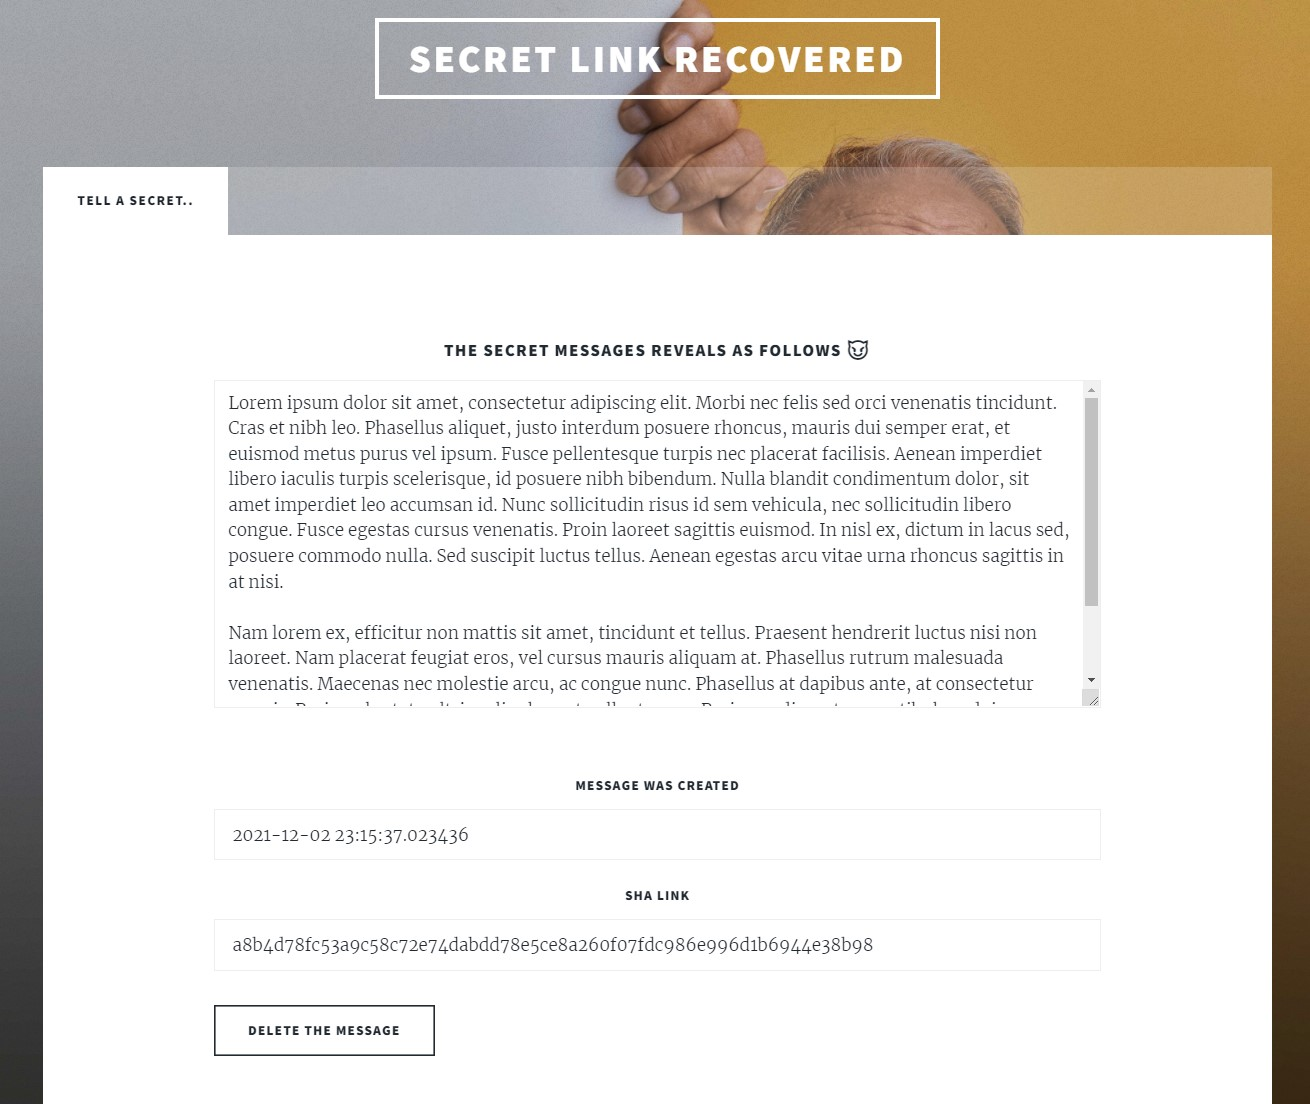
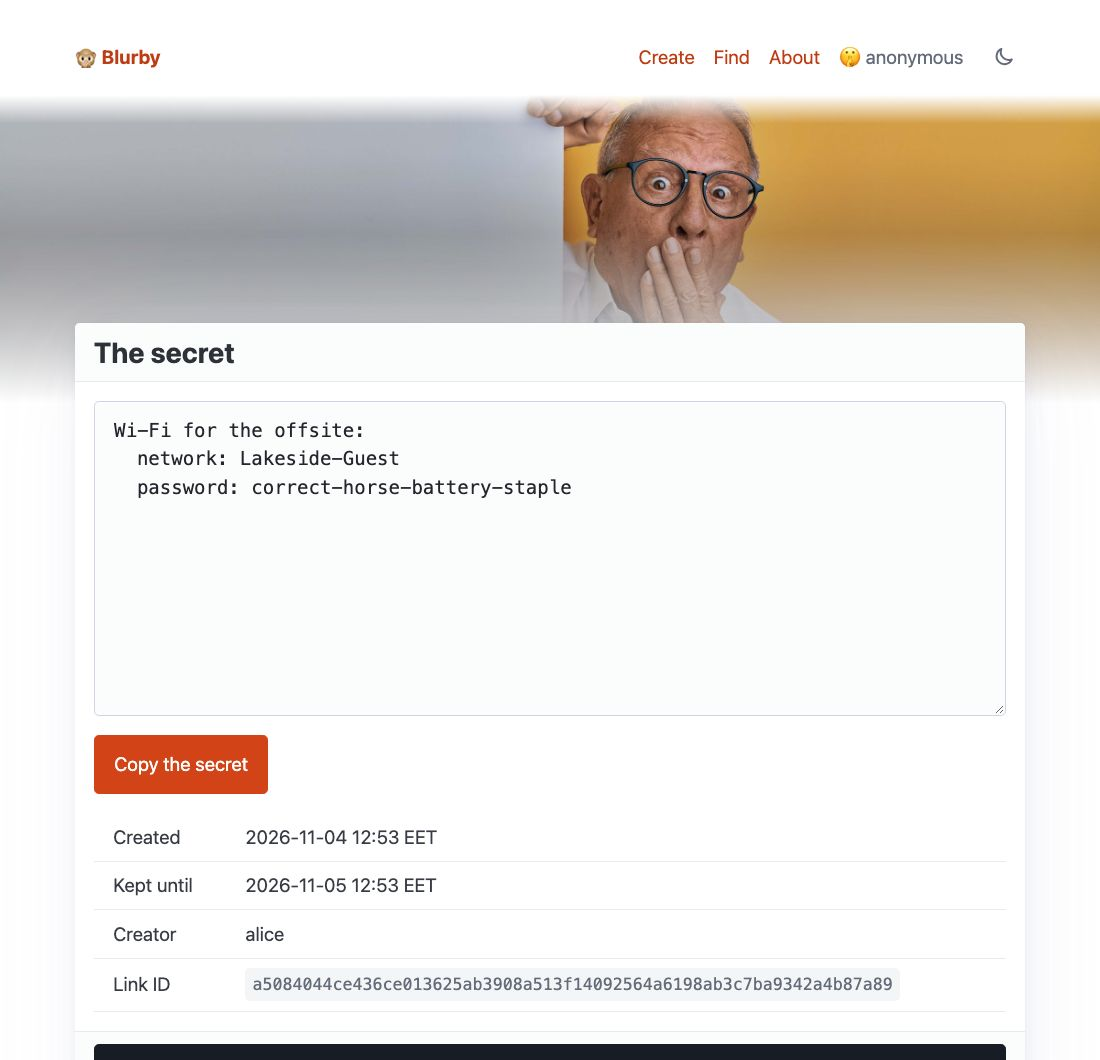
docs: describe the 0.4.0 features, settings, schema migration and UI
README: the features, BLURBY_MAX_TTL_HOURS, the automatic schema
upgrade, Pico CSS in the credits instead of the old theme's, a new
screenshot, and the Todo list without the items 0.3.0 settled.

CLAUDE.md: the new modules and routes, burning and read receipts, the
schema rules (additive only, nullable or server-defaulted columns), the
CSP and what it means for templates, and the static assets.

diff --git a/CLAUDE.md b/CLAUDE.md
@@ -4,7 +4,7 @@ This file provides guidance to Claude Code (claude.ai/code) when working with co
 
 ## What this is
 
-Blurby is a small Flask app for sharing pastebin-style "secrets": a user posts text, it is stored in SQLite under a random 64-hex-character link, and it is automatically deleted after a TTL. The code is the `blurby` package in `src/blurby/`. The UI is Jinja templates based on the HTML5 UP "Massively" theme.
+Blurby is a small Flask app for sharing pastebin-style "secrets": a user posts text, it is stored in SQLite under a random 64-hex-character link, and it is automatically deleted after a TTL. The code is the `blurby` package in `src/blurby/`. The UI is server-rendered Jinja templates styled with a vendored Pico CSS, plus two small vanilla JS files; every page also works without JavaScript.
 
 ## Commands
 
@@ -41,21 +41,23 @@ Runtime dependencies are Flask 3, Flask-SQLAlchemy 3, SQLAlchemy 2 and waitress.
 
 ## Architecture
 
-- **Modules.** `__init__.py` (`create_app`, `__version__`), `config.py` (env vars, `secret_ttl()`), `models.py` (`db`, the `Data` model), `views.py` (routes and the `current_username()` helper), `cleanup.py` (`delete_expired()`, `clean_up_once()`, `CleanUpCrew`), and `main.py` (startup checks and `main()`). `setup_database.py` creates the schema by hand.
+- **Modules.** `__init__.py` (`create_app`, `__version__`, the response headers), `config.py` (env vars, `secret_ttl()`, `ttl_choices()`), `models.py` (`db`, the `Data` model), `migrate.py` (`upgrade_schema()`), `views.py` (routes, the `current_username()` helper and the `hours` and `when` template filters), `cleanup.py` (`delete_expired()`, `clean_up_once()`, `CleanUpCrew`), and `main.py` (startup checks and `main()`). `setup_database.py` creates the schema by hand.
 - **App factory.** `create_app(test_config=None)` builds the app. `db` (Flask-SQLAlchemy) is created unbound and attached with `init_app`, and the routes live on the `blurby` Blueprint, so `url_for` takes `.read` or `blurby.read`. Code that touches the DB outside a request (cleanup thread, startup checks, `setup_database`, tests) must push `app.app_context()`. Importing the module has no side effects.
-- **Configuration.** `config.load_config(environ)` maps the `BLURBY_*` env vars to Flask config keys of the same name: `BLURBY_DB_FILE`, `BLURBY_TTL_HOURS`, `BLURBY_THREADS`, `BLURBY_HOST_IP`, and `BLURBY_CLEANUP_INTERVAL` (seconds between cleanup passes). It also derives `SQLALCHEMY_DATABASE_URI` and sets `MAX_CONTENT_LENGTH`. Code reads these from `current_app.config`, and `secret_ttl()` returns the TTL as a `timedelta`. Tests override settings through `create_app({...})`.
-- **Startup (`blurby.main:main`, the `blurby` console script).** `main()` configures logging to stdout only (no log file; in Docker, `docker logs` keeps it) and creates the app. `check_preconditions(app)` exits the process if the DB file's directory doesn't exist or the path doesn't end in `.db`, and runs `db.create_all()` if the file is missing. Then `CleanUpCrew(app)` starts a daemon thread that calls `clean_up_once(app)` every interval. That function runs `delete_expired()` in an app context and logs any error rather than raising, so the thread can't die. `main()` then installs `stop_on_sigterm`, which turns SIGTERM into `KeyboardInterrupt`. In Docker Blurby is PID 1, which ignores signals it has no handler for, so without it `docker stop` would kill Blurby (exit 137) instead of letting waitress shut down. `--debug` chooses the Flask dev server on port 5000; otherwise waitress serves on port 8080, with `max_request_body_size` set to `MAX_CONTENT_LENGTH`.
-- **Links.** On `POST /`, the link is `secrets.token_hex(32)` (64 hex chars), stored as the `Data.sha_link` primary key. The "sha" naming is historical. `/link/<sha>` reads a secret and treats one past its TTL as not found, even before cleanup deletes it. `/delete/<sha>` deletes it only on `POST`. A `GET` or `HEAD` shows `confirm_delete.html`, so link previewers can't delete secrets. The read page's button posts directly. `/find` checks that the input is 64 alphanumeric characters before redirecting to `/link/<sha>`. The displayed link is built from the `Origin` header, falling back to `request.host_url` when it is missing or `null`.
+- **Configuration.** `config.load_config(environ)` maps the `BLURBY_*` env vars to Flask config keys of the same name: `BLURBY_DB_FILE`, `BLURBY_TTL_HOURS` (the default TTL), `BLURBY_MAX_TTL_HOURS` (the longest TTL a creator can choose; defaults to, and is at least, `BLURBY_TTL_HOURS`, so an upgrade never lengthens retention), `BLURBY_THREADS`, `BLURBY_HOST_IP`, and `BLURBY_CLEANUP_INTERVAL` (seconds between cleanup passes). It also derives `SQLALCHEMY_DATABASE_URI` and sets `MAX_CONTENT_LENGTH`. Code reads these from `current_app.config`. `secret_ttl()` returns the default TTL as a `timedelta`, and `ttl_choices()` the hours a creator can choose: `TTL_PRESETS_HOURS` up to the cap, plus the default. Tests override settings through `create_app({...})`.
+- **Startup (`blurby.main:main`, the `blurby` console script).** `main()` configures logging to stdout only (no log file; in Docker, `docker logs` keeps it) and creates the app. `check_preconditions(app)` exits the process if the DB file's directory doesn't exist or the path doesn't end in `.db`, and runs `db.create_all()` if the file is missing. It then runs `upgrade_schema()` (see Schema) and exits if that fails. Then `CleanUpCrew(app)` starts a daemon thread that calls `clean_up_once(app)` every interval. That function runs `delete_expired()` in an app context and logs any error rather than raising, so the thread can't die. `main()` then installs `stop_on_sigterm`, which turns SIGTERM into `KeyboardInterrupt`. In Docker Blurby is PID 1, which ignores signals it has no handler for, so without it `docker stop` would kill Blurby (exit 137) instead of letting waitress shut down. `--debug` chooses the Flask dev server on port 5000; otherwise waitress serves on port 8080, with `max_request_body_size` set to `MAX_CONTENT_LENGTH`.
+- **Links.** On `POST /`, the link is `secrets.token_hex(32)` (64 hex chars), stored as the `Data.sha_link` primary key. The "sha" naming is historical. The form also posts `ttl_hours` (one of `ttl_choices()`, else 400; missing means the default) and `read_once`. `/link/<sha>` reads a secret and treats one past `Data.expiry` as not found, even before cleanup deletes it.
+- **Burning.** `POST /burn/<sha>` (#26) and `POST /reveal/<sha>` (#27) burn a secret with one conditional `UPDATE … WHERE burnt_at IS NULL` (`burn_statement()`): `data` becomes `''`, and `burnt_at` and `burnt_by` (the `username` header, or NULL for anonymous) are set, so only the first burn counts. A burnt link shows `receipt.html` with 410 until its expiry. A read-once secret's `GET`/`HEAD` shows `reveal.html`, a notice with a Reveal form; only the reveal `POST` shows the text, and only if its burn succeeded. Both routes are POST-only (405 otherwise), because link previewers and scanners open links with `GET` or `HEAD`. `/delete/<sha>` still deletes without a trace, only on `POST`; a `GET` or `HEAD` shows `confirm_delete.html`. The read page offers Burn, not Delete. `/find` checks that the input is 64 alphanumeric characters before redirecting to `/link/<sha>`. The displayed link is built from the `Origin` header, falling back to `request.host_url` when it is missing or `null`.
 - **Logs never contain secrets or links.** A link is the key to its secret, so it is as sensitive as the text. The engine runs with `hide_parameters=True`, so database errors don't print SQL parameters. `BlurbyFlask.log_exception` logs the route pattern (`/link/<string:sha_link>`) instead of the request path. `tests/test_log_privacy.py` checks both. Never log `request.path`, a `sha_link`, or form data. The Flask dev server under `--debug` still logs request paths.
 - **Size limit.** A secret can be at most `config.MAX_SECRET_LENGTH` (16384) characters, the same as the form's textarea `maxlength`, and a test checks that they match. A line break counts as one character, as in the browser. Requests are capped at `MAX_REQUEST_BYTES` (150 KiB), because the URL-encoded form can take up to 9 bytes per character. Both limits return the 413 "Secret too long" page.
-- **Privacy headers.** `set_privacy_headers` (an `after_request` hook in `__init__.py`) sends `Referrer-Policy: same-origin` on every response and `Cache-Control: no-store` on HTML pages, so browsers don't keep pages with secrets or links, and don't send their URLs to other sites. Static files keep their caching. Not `no-referrer`: under it, browsers send `Origin: null` with the page's own form posts, and the new link would start with `null/`.
+- **Schema.** `Data` has the original columns plus `expires_at`, `read_once`, `burnt_at` and `burnt_by` (0.4.0). `db.create_all()` doesn't add columns to an existing table, so `upgrade_schema()` adds missing ones with `ALTER TABLE ADD COLUMN` on every start. The schema only grows: never drop or change a column, and make new ones nullable or give them a `server_default`, so an older version still runs (and can insert) after a rollback. `Data.expiry` is `expires_at`, or for rows without one `timestamp + secret_ttl()`; the cleanup's DELETE uses the same rule. Times are naive server-local (UTC in Docker); the `when` filter shows them with the timezone.
+- **Privacy headers.** `set_privacy_headers` (an `after_request` hook in `__init__.py`) sends `Referrer-Policy: same-origin` and `X-Content-Type-Options: nosniff` on every response, and `Cache-Control: no-store` and `CONTENT_SECURITY_POLICY` on HTML pages, so browsers don't keep pages with secrets or links, and don't send their URLs to other sites. Static files keep their caching. The CSP allows only Blurby's own scripts, styles and images (plus `data:` images, which Pico uses for form icons), and forbids framing; so templates must not use inline `<script>`, `on*=` handlers, `<style>` or `style=` attributes (`tests/test_pages.py` checks). Not `no-referrer`: under it, browsers send `Origin: null` with the page's own form posts, and the new link would start with `null/`.
 - **Identity.** The app has no auth of its own. The "user" is whatever value the `username` request header carries (presumably set by an upstream auth proxy), falling back to `anonymous`. Every route passes `username` into its template, and it is saved as `Data.creator`.
-- **Templates.** Every page extends `templates/base_structure.html` and fills the blocks `intro`, `header`, `main`, and `footer`. `msg.html` is the generic message/error page (`msg_title`, `msg`). Error pages return a matching status: 400 for an empty secret or an invalid `/find` link, 404 for an unknown or expired link, 413 for a secret that is too long, and 500 for a database error.
-- **Static assets.** `static/sass/` holds the theme sources, but the repo has no Sass build step. The compiled `static/css/main.css` is committed and is what gets served. Templates and static files ship inside the wheel. Pages load nothing from other sites (no web fonts, no CDNs): each request would tell that site who uses Blurby. `tests/test_third_party.py` checks the stylesheets and templates.
+- **Templates.** Every page extends `templates/base_structure.html` and fills the blocks `title` and `main` (usually one `<article>`). `msg.html` is the generic message/error page (`msg_title`, `msg`). Error pages return a matching status: 400 for an empty secret, an invalid TTL or an invalid `/find` link, 404 for an unknown or expired link, 405 for `GET` on `/burn` or `/reveal`, 410 for a burnt secret's receipt, 413 for a secret that is too long, and 500 for a database error.
+- **Static assets.** No build step. `static/css/pico.orange.min.css` is Pico CSS 2.1.1 (the orange accent), vendored unmodified with `pico.LICENSE.md`; overrides go in `static/css/blurby.css`. `static/js/blurby.js` wires up `button[data-copy="#id"]` (copy a field; hidden until the script runs), `form[data-reveal]` (reveal in place with `fetch`) and `[data-shown-once]` (a `beforeunload` prompt). It also wires up the light/dark switch (`button[data-theme-switch]`), which saves the reader's choice in `localStorage` as `blurby-theme`, or forgets it when it matches the system's setting. `static/js/theme.js` is loaded in `<head>` without `defer` and applies a saved choice as `<html data-theme>` before the page is drawn; without one, Pico follows `prefers-color-scheme`. The server never sets `data-theme`. `static/images/hush.jpg` is the photo under the menu (krakenimages on Unsplash, credited on `/about` and in the README). Templates and static files ship inside the wheel. Pages load nothing from other sites (no web fonts, no CDNs): each request would tell that site who uses Blurby. `tests/test_third_party.py` checks the stylesheets and templates.
 
 ## Docker image
 
-The image builds in `/build` and installs the locked runtime dependencies plus the non-editable `blurby` package into `/opt/venv`. It runs the `blurby` console script from `/blurby`, the runtime directory. `/blurby/data` is the only volume and holds the SQLite DB; logs go to stdout. Keep the deployment interface stable: port 8080, the `/blurby/data` volume, the `BLURBY_*` env vars, the link format, and the DB schema.
+The image builds in `/build` and installs the locked runtime dependencies plus the non-editable `blurby` package into `/opt/venv`. It runs the `blurby` console script from `/blurby`, the runtime directory. `/blurby/data` is the only volume and holds the SQLite DB; logs go to stdout. Keep the deployment interface stable: port 8080, the `/blurby/data` volume, the `BLURBY_*` env vars, and the link format. The DB schema changes only additively (see Schema).
 
 ## Conventions
 

diff --git a/README.md b/README.md
@@ -2,6 +2,12 @@
 
 Simple little Flask app that takes pastebin-like of data from user and stores it in a sqlite file.
 
+- **Links that expire.** Each secret gets a random link and is deleted when its time is up. The creator chooses how long to keep it, up to a limit the admin sets.
+- **Burn after reading.** The reader can burn a secret once they've read it. Its link then shows a read receipt: when it was burnt, and by whom.
+- **Read-once secrets.** The creator can make a secret burn as it's revealed. Opening the link only shows a notice, so chat link previews and email scanners can't use up the one view; the secret is shown when the reader clicks Reveal.
+- **Copy buttons** for the link and the secret.
+- **Light and dark mode.** Pages follow your system's setting; the switch in the menu picks the other mode, and your browser remembers the choice.
+- **Private by design.** Logs never contain secrets or links, pages aren't cached and load nothing from other sites, and a strict Content-Security-Policy is in place.
 
 ## How-To
 
@@ -23,7 +29,8 @@ Configuration is done via environment variables. The following are the available
 
     - `BLURBY_DB_FILE`: Path to the sqlite database. (defaults to `/blurby/data/sqlite.db`)
     - `BLURBY_HOST_IP`: Host to bind the server to. (defaults to `0.0.0.0`)
-    - `BLURBY_TTL_HOURS`: How long to keep a paste in the database. (defaults to `48`)
+    - `BLURBY_TTL_HOURS`: How long to keep a secret, unless its creator chooses otherwise. (defaults to `48`)
+    - `BLURBY_MAX_TTL_HOURS`: The longest TTL a creator can choose: 1 hour, 1 day, 2 days, 5 days, 1 week or 2 weeks, up to this limit. (defaults to `BLURBY_TTL_HOURS`, so creators can only choose shorter TTLs until you raise it; e.g. `336` allows up to 2 weeks)
     - `BLURBY_THREADS`: Number of threads to use for processing. (defaults to `8`)
     - `BLURBY_CLEANUP_INTERVAL`: Seconds between passes that delete expired pastes. (defaults to `60`)
 
@@ -38,6 +45,8 @@ The application now checks if a `BLURBY_DB_FILE` environment variable is set. If
 
 Manually: To create a blank Sqlite DB for the app use the `uv run python -m blurby.setup_database` command.
 
+On every start, Blurby also adds any columns that a database from an earlier version lacks. The schema only grows, so an earlier version still runs on the upgraded database.
+
 ## Using docker
 
 To use docker simply run the container with prefered volume maps. The container serves on port `8080` and keeps the SQLite database in `/blurby/data`.
@@ -49,26 +58,13 @@ The database file is created on first start if it's missing (see [Initializing d
 
 ## Todo
 
-- Possibility to create logfile entries
-- Better error handling
 - Add view history to entries
 
 ## Credits
 
-Photo by <a href="https://unsplash.com/@krakenimages?utm_source=unsplash&utm_medium=referral&utm_content=creditCopyText">krakenimages</a> on <a href="https://unsplash.com/s/photos/secret?utm_source=unsplash&utm_medium=referral&utm_content=creditCopyText">Unsplash</a>
+Styled with [Pico CSS](https://picocss.com) (MIT license), vendored in `src/blurby/static/css/` with its license.
 
-Icons: 
-- [Font Awesome](http://fontawesome.io)
-
-Other:
-- [jQuery](http://jquery.com)
-- [Scrollex](https://github.com/ajlkn/jquery.scrollex)
-- [Responsive Tools](https://github.com/ajlkn/responsive-tools)
-
-Theme:
-Massively by HTML5 UP
-html5up.net | @ajlkn
-Free for personal and commercial use under the [CCA 3.0 license](https://html5up.net/license)
+Photo by [krakenimages](https://unsplash.com/@krakenimages) on [Unsplash](https://unsplash.com/photos/8RXmc8pLX_I).
 
 ## Screenshot
 
